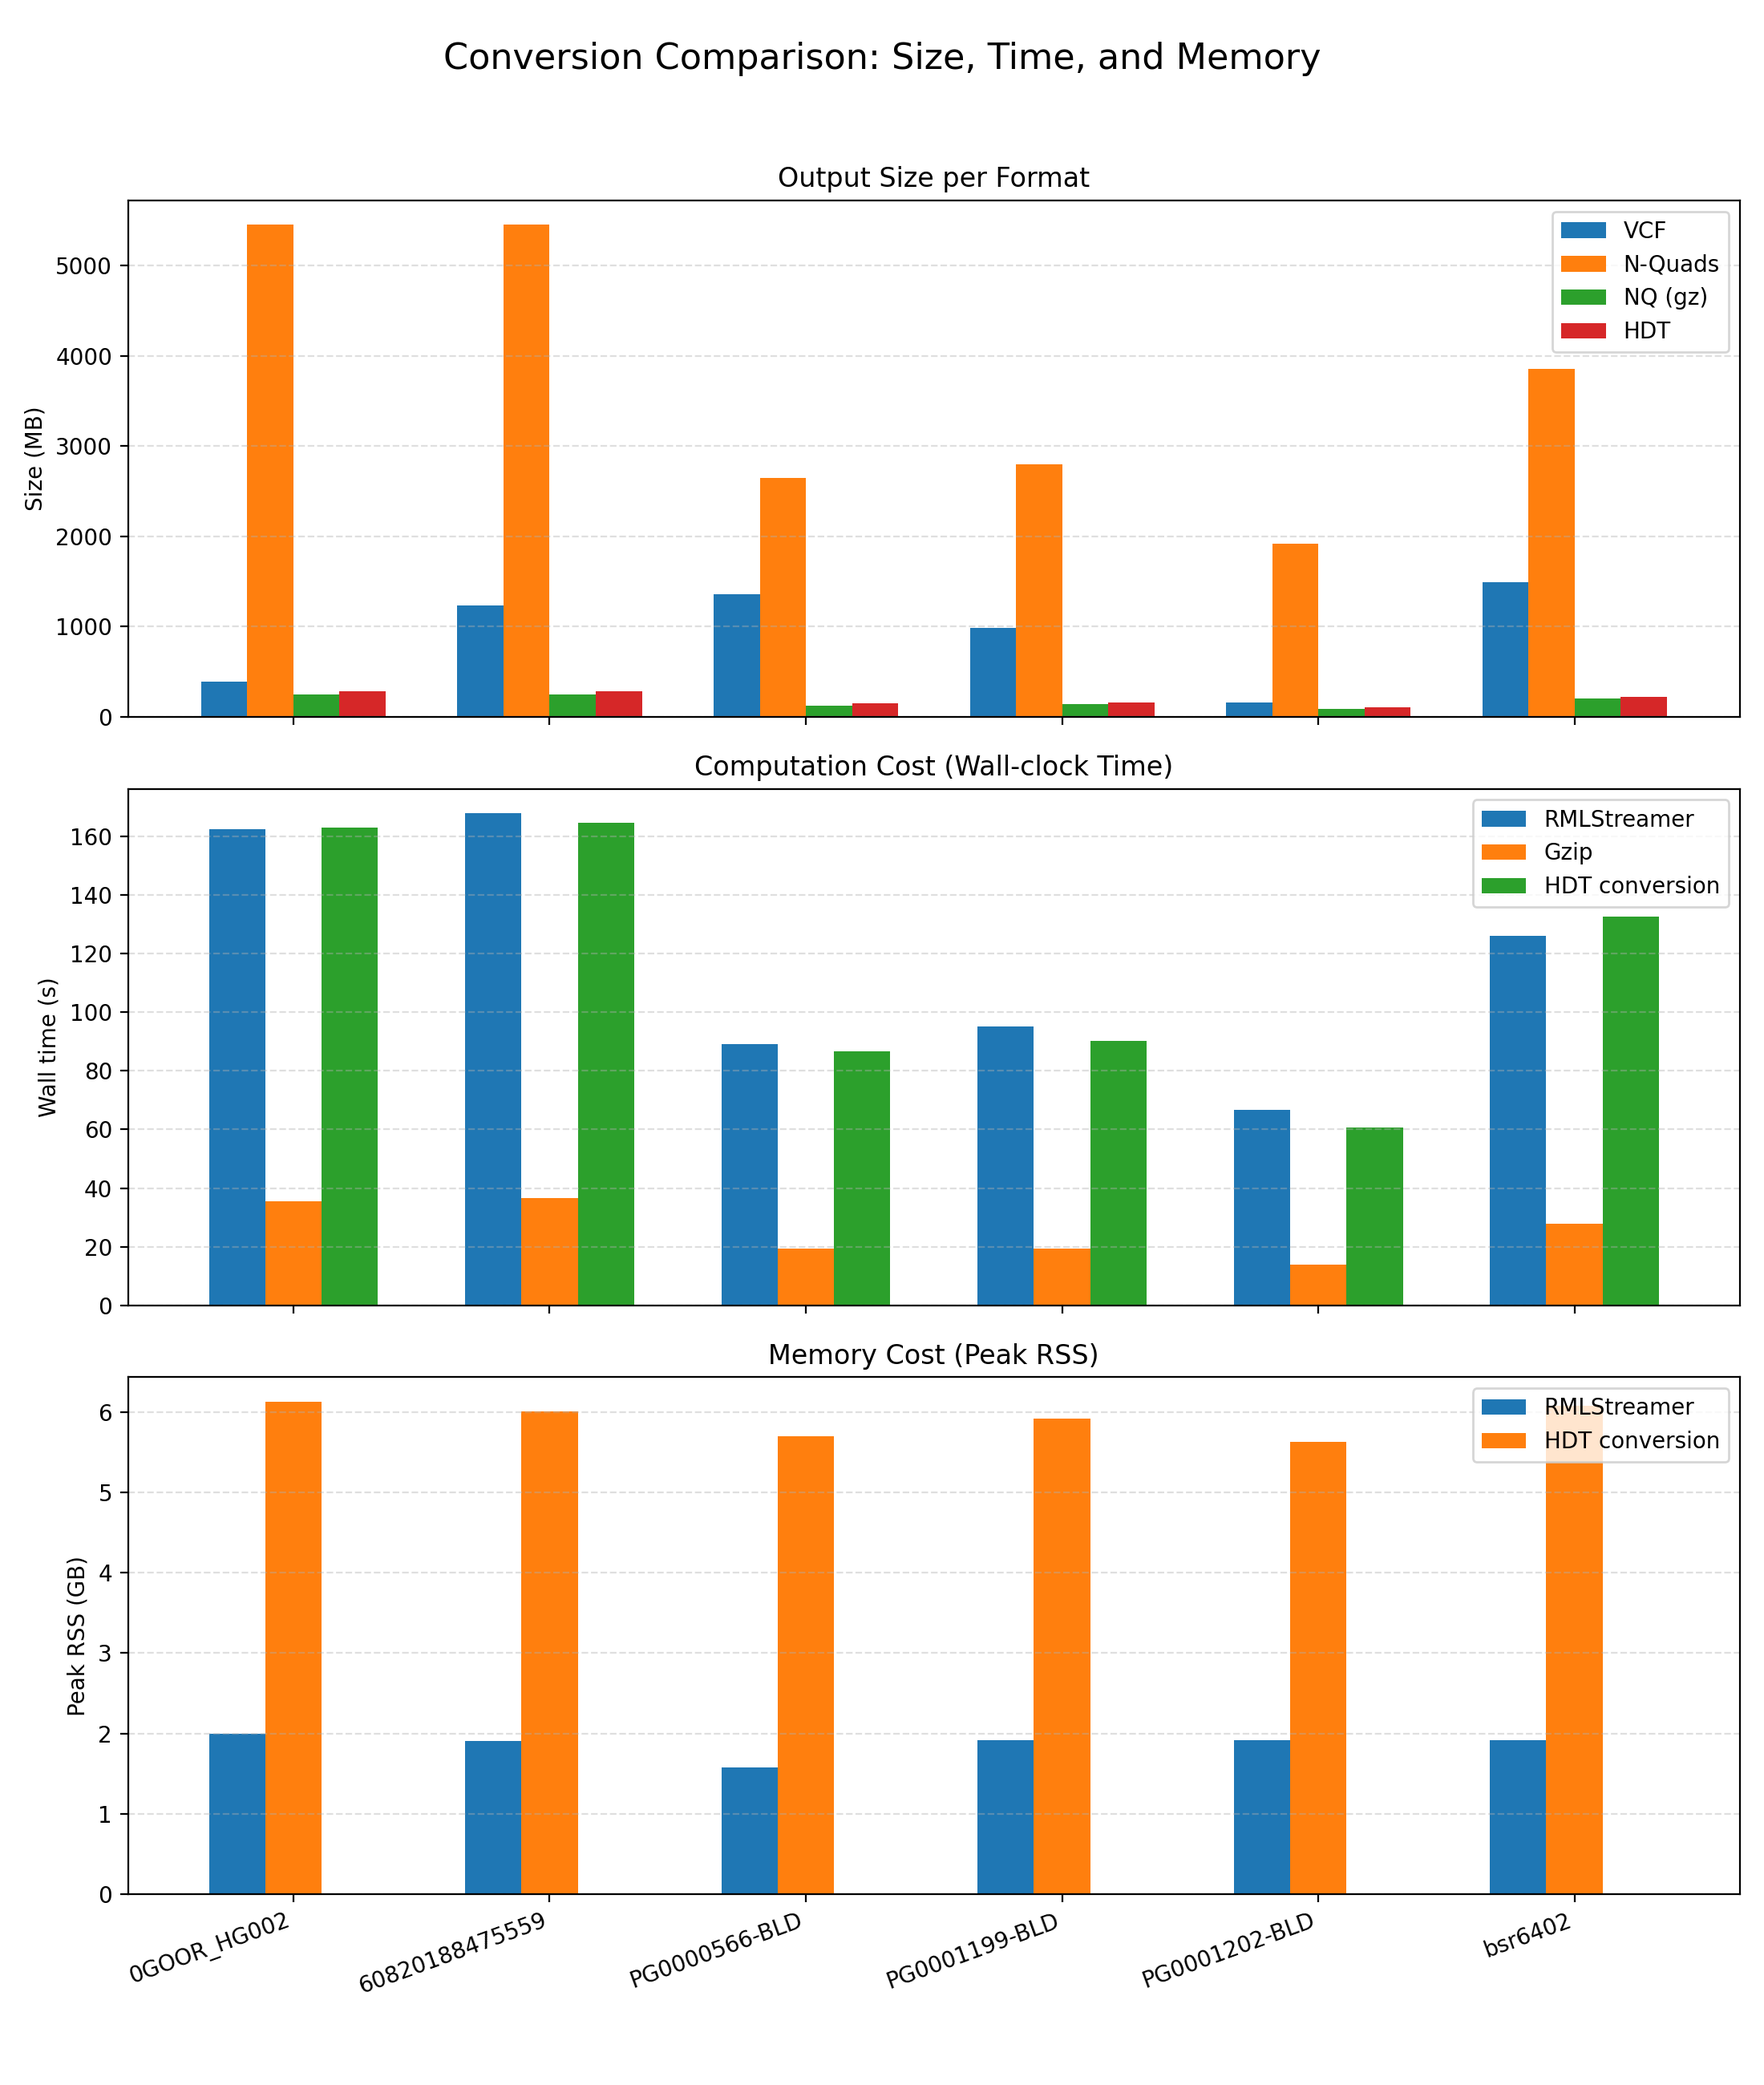
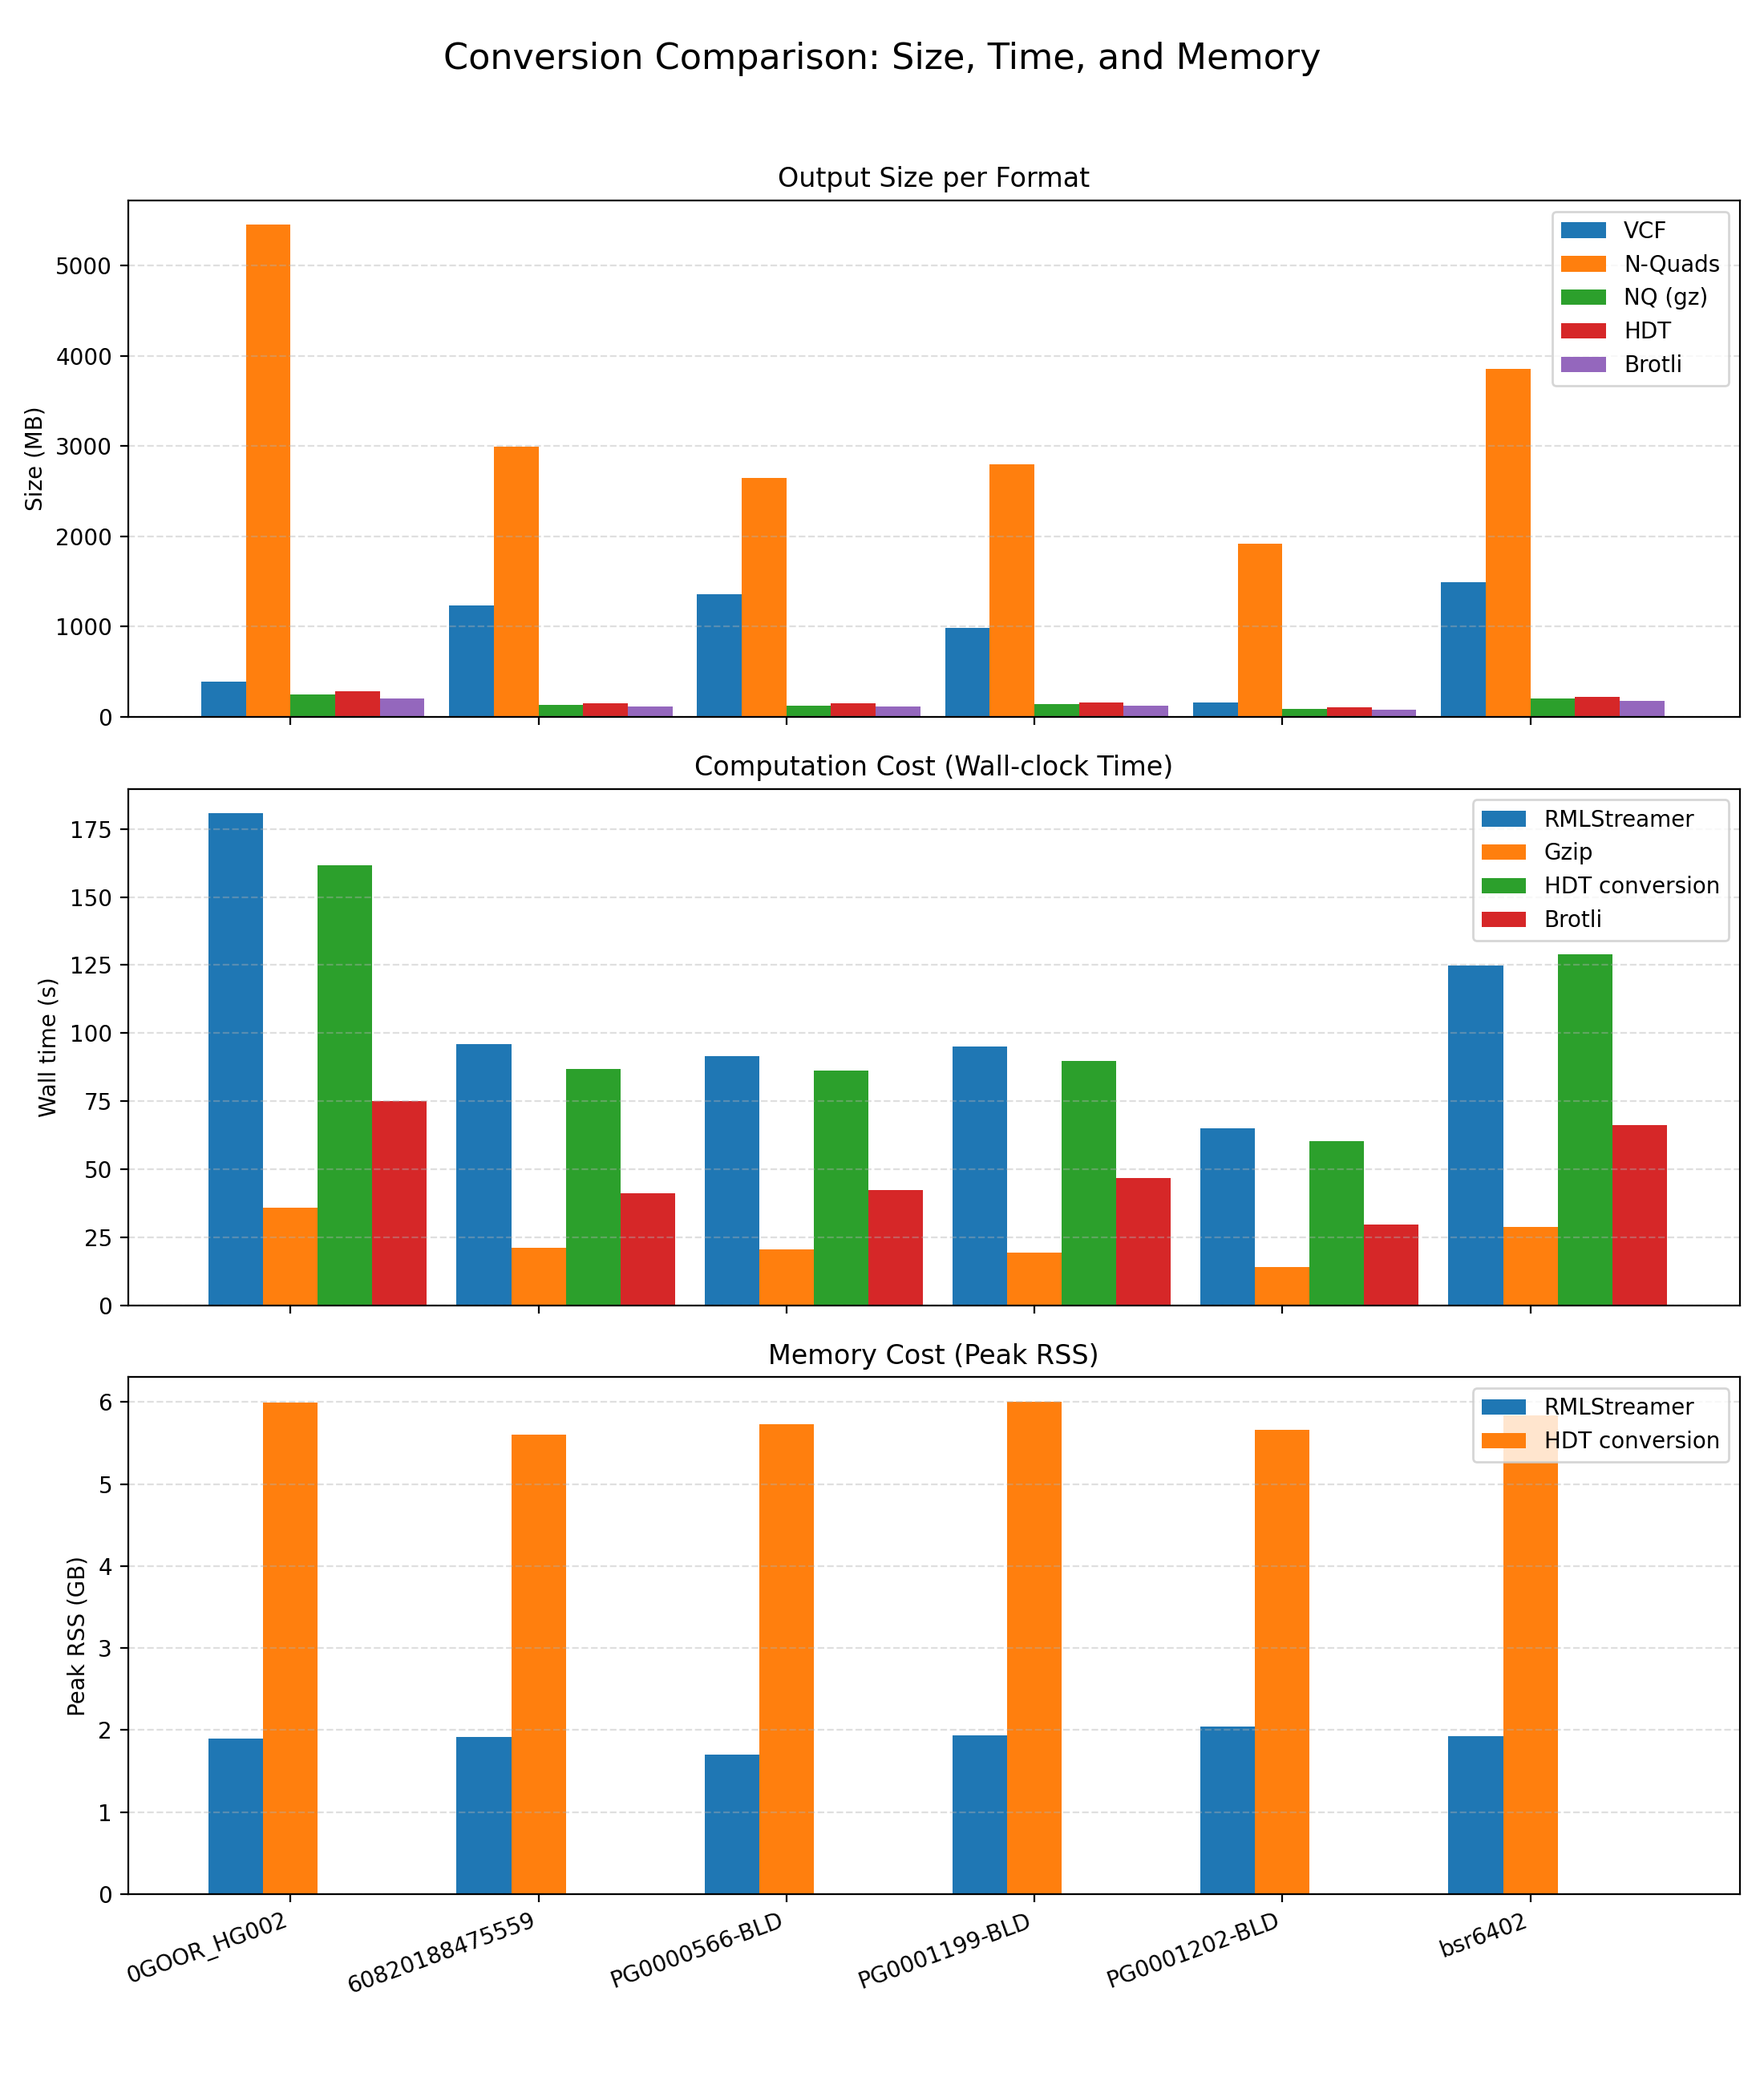
updated metric files

diff --git a/figures.py b/figures.py
@@ -23,6 +23,7 @@ def load_single_run(path: Path) -> dict:
     java_timing = data["java_timing"]
     gzip = data["gzip"]
     hdt = data["hdt_conversion"]
+    brotli = data["brotli"]
 
     row = {
         "run_id": run_id,
@@ -31,24 +32,29 @@ def load_single_run(path: Path) -> dict:
         "nq_MB": artifacts["combined_nq_size_bytes"] / 1e6,
         "gzip_MB": artifacts["gzip_size_bytes"] / 1e6,
         "hdt_MB": artifacts["hdt_size_bytes"] / 1e6,
+        "brotli_MB": brotli["output_brotli_size_bytes"] / 1e6,
         # Triples
         "triples_M": artifacts["output_triples"]["TOTAL"] / 1e6,
         # Time wall (seconds)
         "java_wall_s": java_timing["wall_seconds"],
         "gzip_wall_s": gzip["timing"]["wall_seconds"],
         "hdt_wall_s": hdt["timing"]["wall_seconds"],
+        "brotli_wall_s": brotli["timing"]["wall_seconds"],
         # Time user (seconds)
         "java_user_s": java_timing["user_seconds"],
         "gzip_user_s": gzip["timing"]["user_seconds"],
         "hdt_user_s": hdt["timing"]["user_seconds"],
+        "brotli_user_s": brotli["timing"]["user_seconds"],
         # Time system (seconds)
         "java_system_s": java_timing["sys_seconds"],
         "gzip_system_s": gzip["timing"]["sys_seconds"],
         "hdt_system_s": hdt["timing"]["sys_seconds"],
+        "brotli_system_s": brotli["timing"]["sys_seconds"],
         # Peak RSS (GB)
         "java_max_rss_GB": java_timing["max_rss_kb"] / (1024 ** 2),
         "gzip_max_rss_GB": gzip["timing"]["max_rss_kb"] / (1024 ** 2),
         "hdt_max_rss_GB": hdt["timing"]["max_rss_kb"] / (1024 ** 2),
+        "brotli_max_rss_GB": brotli["timing"]["max_rss_kb"] / (1024 ** 2),
     }
     return row
 
@@ -86,8 +92,8 @@ def make_plots(df: pd.DataFrame):
     fig.suptitle("Conversion Comparison: Size, Time, and Memory", fontsize=16)
 
     # ---- 1) Sizes per format ----
-    size_cols = ["input_vcf_MB", "nq_MB", "gzip_MB", "hdt_MB"]
-    size_labels = ["VCF", "N-Quads", "NQ (gz)", "HDT"]
+    size_cols = ["input_vcf_MB", "nq_MB", "gzip_MB", "hdt_MB", "brotli_MB"]
+    size_labels = ["VCF", "N-Quads", "NQ (gz)", "HDT", "Brotli"]
 
     width = 0.18
     offsets = [i * width - (1.5 * width) for i in range(len(size_cols))]
@@ -106,8 +112,8 @@ def make_plots(df: pd.DataFrame):
     axes[0].grid(axis="y", linestyle="--", alpha=0.4)
 
     # ---- 2) Wall-clock time per step ----
-    time_cols = ["java_wall_s", "gzip_wall_s", "hdt_wall_s"]
-    time_labels = ["RMLStreamer", "Gzip", "HDT conversion"]
+    time_cols = ["java_wall_s", "gzip_wall_s", "hdt_wall_s", "brotli_wall_s"]
+    time_labels = ["RMLStreamer", "Gzip", "HDT conversion", "Brotli"]
     width_time = 0.22
     offsets_time = [i * width_time - width_time for i in range(len(time_cols))]
 
